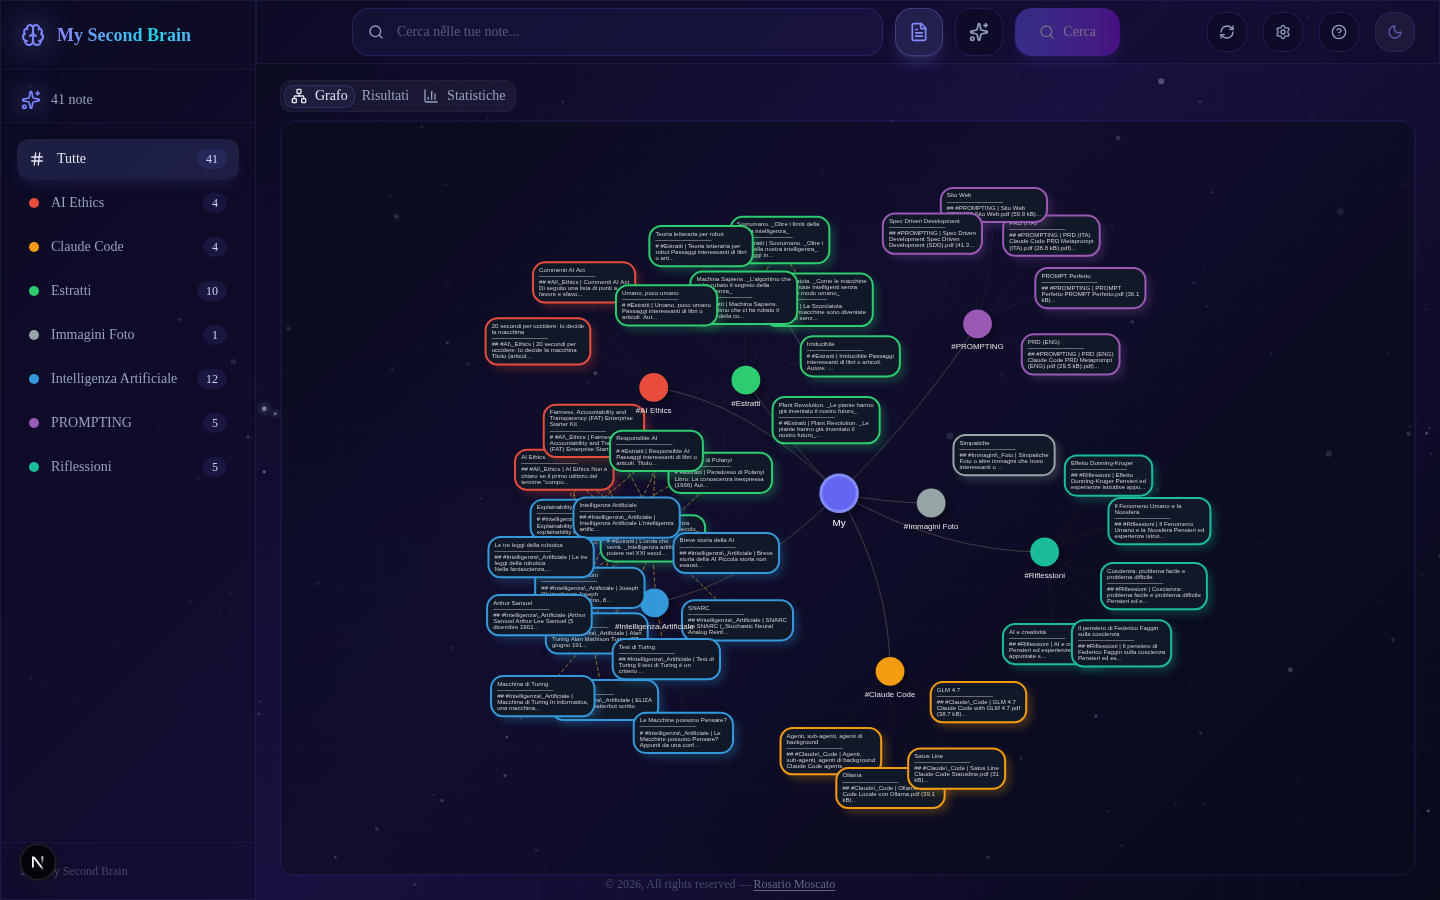
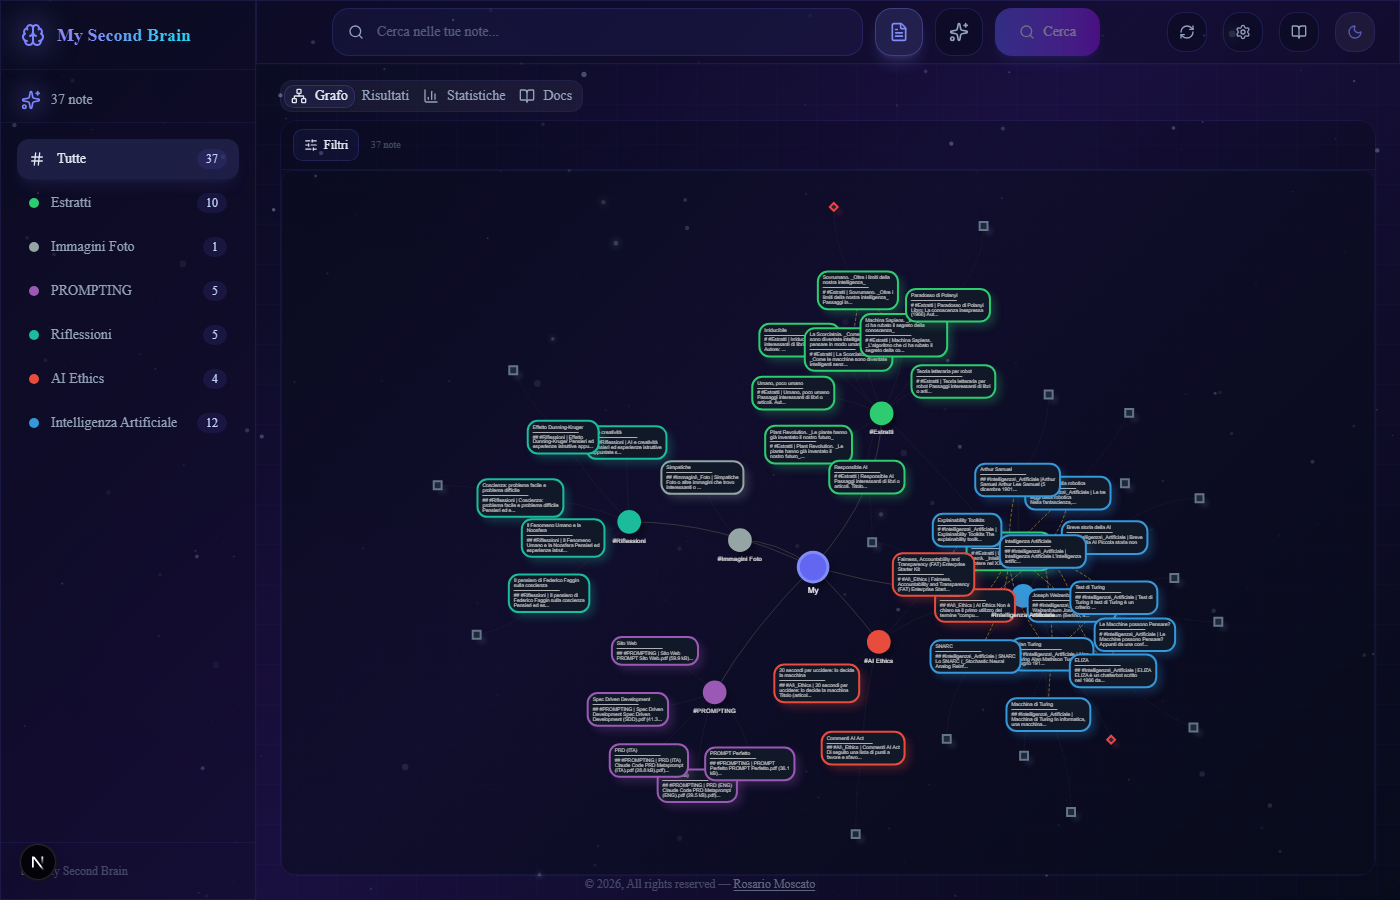
feat: advanced graph filters and external link nodes

diff --git a/components/graph-filters.tsx b/components/graph-filters.tsx
@@ -1,0 +1,155 @@
+"use client";
+
+import { useState } from "react";
+import { Button } from "@/components/ui/button";
+import { Badge } from "@/components/ui/badge";
+import { X, SlidersHorizontal, Link2, Paperclip, Calendar } from "lucide-react";
+
+export interface GraphFiltersState {
+  minLinks: number;
+  hasAttachments: "all" | "yes" | "no";
+  hasExternalLinks: "all" | "yes" | "no";
+}
+
+interface GraphFiltersProps {
+  active: GraphFiltersState;
+  onChange: (filters: GraphFiltersState) => void;
+  maxLinks: number;
+}
+
+const DEFAULT_FILTERS: GraphFiltersState = {
+  minLinks: 0,
+  hasAttachments: "all",
+  hasExternalLinks: "all",
+};
+
+export { DEFAULT_FILTERS };
+
+export function GraphFilters({ active, onChange, maxLinks }: GraphFiltersProps) {
+  const [isOpen, setIsOpen] = useState(false);
+
+  const isDefault =
+    active.minLinks === DEFAULT_FILTERS.minLinks &&
+    active.hasAttachments === DEFAULT_FILTERS.hasAttachments &&
+    active.hasExternalLinks === DEFAULT_FILTERS.hasExternalLinks;
+
+  const activeCount = [
+    active.minLinks > 0,
+    active.hasAttachments !== "all",
+    active.hasExternalLinks !== "all",
+  ].filter(Boolean).length;
+
+  const reset = () => onChange(DEFAULT_FILTERS);
+
+  return (
+    <div className="relative">
+      <div className="flex items-center gap-2">
+        <Button
+          variant="outline"
+          size="sm"
+          onClick={() => setIsOpen(!isOpen)}
+          className={`h-8 gap-1.5 text-xs ${!isDefault ? "border-indigo-500/50 text-indigo-400 bg-indigo-500/10" : ""}`}
+        >
+          <SlidersHorizontal className="h-3.5 w-3.5" />
+          Filtri
+          {activeCount > 0 && (
+            <Badge variant="secondary" className="h-4 min-w-4 px-1 text-[10px]">
+              {activeCount}
+            </Badge>
+          )}
+        </Button>
+        {!isDefault && (
+          <button
+            onClick={reset}
+            className="text-[10px] text-muted-foreground/50 hover:text-foreground transition-colors flex items-center gap-1"
+          >
+            <X className="h-3 w-3" />
+            Reset
+          </button>
+        )}
+      </div>
+
+      {isOpen && (
+        <div className="absolute top-full left-0 mt-2 z-50 w-72 rounded-xl border border-border/50 bg-popover/95 backdrop-blur-xl shadow-xl p-4 space-y-4">
+          <div className="flex items-center justify-between">
+            <span className="text-sm font-medium">Filtri grafo</span>
+            <button onClick={() => setIsOpen(false)} className="text-muted-foreground hover:text-foreground">
+              <X className="h-4 w-4" />
+            </button>
+          </div>
+
+          <div className="space-y-2">
+            <label className="text-xs text-muted-foreground flex items-center gap-1.5">
+              <Link2 className="h-3 w-3" />
+              Collegamenti minimi: {active.minLinks}
+            </label>
+            <input
+              type="range"
+              min={0}
+              max={maxLinks}
+              value={active.minLinks}
+              onChange={(e) => onChange({ ...active, minLinks: Number(e.target.value) })}
+              className="w-full h-1.5 bg-muted rounded-full appearance-none cursor-pointer accent-indigo-500"
+            />
+            <div className="flex justify-between text-[10px] text-muted-foreground/50">
+              <span>0</span>
+              <span>{maxLinks}</span>
+            </div>
+          </div>
+
+          <div className="space-y-2">
+            <label className="text-xs text-muted-foreground flex items-center gap-1.5">
+              <Paperclip className="h-3 w-3" />
+              Allegati
+            </label>
+            <div className="flex gap-1.5">
+              {[
+                { value: "all" as const, label: "Tutti" },
+                { value: "yes" as const, label: "Con" },
+                { value: "no" as const, label: "Senza" },
+              ].map((opt) => (
+                <button
+                  key={opt.value}
+                  onClick={() => onChange({ ...active, hasAttachments: opt.value })}
+                  className={`flex-1 text-[11px] px-2 py-1.5 rounded-lg border transition-all ${
+                    active.hasAttachments === opt.value
+                      ? "border-indigo-500/50 bg-indigo-500/10 text-indigo-400"
+                      : "border-border/50 bg-background/40 text-muted-foreground hover:bg-accent"
+                  }`}
+                >
+                  {opt.label}
+                </button>
+              ))}
+            </div>
+          </div>
+
+          <div className="space-y-2">
+            <label className="text-xs text-muted-foreground flex items-center gap-1.5">
+              <Calendar className="h-3 w-3" />
+              Link esterni
+            </label>
+            <div className="flex gap-1.5">
+              {[
+                { value: "all" as const, label: "Tutti" },
+                { value: "yes" as const, label: "Con" },
+                { value: "no" as const, label: "Senza" },
+              ].map((opt) => (
+                <button
+                  key={opt.value}
+                  onClick={() => onChange({ ...active, hasExternalLinks: opt.value })}
+                  className={`flex-1 text-[11px] px-2 py-1.5 rounded-lg border transition-all ${
+                    active.hasExternalLinks === opt.value
+                      ? "border-indigo-500/50 bg-indigo-500/10 text-indigo-400"
+                      : "border-border/50 bg-background/40 text-muted-foreground hover:bg-accent"
+                  }`}
+                >
+                  {opt.label}
+                </button>
+              ))}
+            </div>
+          </div>
+        </div>
+      )}
+    </div>
+  );
+}

diff --git a/app/page.tsx b/app/page.tsx
@@ -18,6 +18,7 @@ import { ScrollArea } from "@/components/ui/scroll-area";
 import { Brain, Network, RefreshCw, X, BarChart3, Settings, HelpCircle, BookOpen } from "lucide-react";
 import { SettingsDialog } from "@/components/settings-dialog";
 import { DocsViewer } from "@/components/docs-viewer";
+import { GraphFilters, DEFAULT_FILTERS, type GraphFiltersState } from "@/components/graph-filters";
 import { useSearchHistory } from "@/hooks/use-search-history";
 
 const allNotes = loadNotes();
@@ -39,6 +40,7 @@ export default function Home() {
   const [focusedResultIndex, setFocusedResultIndex] = useState(-1);
   const [searchQuery, setSearchQuery] = useState("");
   const [settingsOpen, setSettingsOpen] = useState(false);
+  const [graphFilters, setGraphFilters] = useState<GraphFiltersState>(DEFAULT_FILTERS);
   const graphRef = useRef<NoteGraphHandle>(null);
   const { history: searchHistory, add: addHistory, remove: removeHistory, clear: clearHistory } = useSearchHistory();
 
@@ -55,6 +57,29 @@ export default function Home() {
     : null;
 
   const currentNotes = notesVersion >= 0 ? filteredNotes : filteredNotes;
+
+  const maxLinksInNotes = useMemo(
+    () => Math.max(...allNotes.map((n) => n.links.length), 0),
+    []
+  );
+
+  const graphFilteredNotes = useMemo(() => {
+    let result = currentNotes;
+    if (graphFilters.minLinks > 0) {
+      result = result.filter((n) => n.links.length >= graphFilters.minLinks);
+    }
+    if (graphFilters.hasAttachments === "yes") {
+      result = result.filter((n) => n.attachments.length > 0);
+    } else if (graphFilters.hasAttachments === "no") {
+      result = result.filter((n) => n.attachments.length === 0);
+    }
+    if (graphFilters.hasExternalLinks === "yes") {
+      result = result.filter((n) => (n.externalLinks?.length ?? 0) > 0);
+    } else if (graphFilters.hasExternalLinks === "no") {
+      result = result.filter((n) => (n.externalLinks?.length ?? 0) === 0);
+    }
+    return result;
+  }, [currentNotes, graphFilters]);
 
   useEffect(() => {
     function handleKeyDown(e: KeyboardEvent) {
@@ -437,8 +462,20 @@ export default function Home() {
             </div>
 
             <TabsContent value="graph" className="flex-1 min-h-0 mt-0 px-6 pb-6">
-              <div className="h-full rounded-xl border border-indigo-500/10">
-                <NoteGraph ref={graphRef} notes={filteredNotes} onNodeClick={handleNoteClick} />
+              <div className="h-full flex flex-col rounded-xl border border-indigo-500/10 overflow-hidden">
+                <div className="shrink-0 px-3 py-2 border-b border-indigo-500/10 bg-background/30 flex items-center gap-3">
+                  <GraphFilters
+                    active={graphFilters}
+                    onChange={setGraphFilters}
+                    maxLinks={maxLinksInNotes}
+                  />
+                  <span className="text-[10px] text-muted-foreground/40">
+                    {graphFilteredNotes.length} note
+                  </span>
+                </div>
+                <div className="flex-1 min-h-0">
+                  <NoteGraph ref={graphRef} notes={graphFilteredNotes} onNodeClick={handleNoteClick} />
+                </div>
               </div>
             </TabsContent>
 

diff --git a/README.md b/README.md
@@ -1,6 +1,6 @@
 # My Second Brain — Guida Utente
 
-Esplora, cerca e interroga le tue note markdown con l'aiuto dell'intelligenza artificiale. Grafo interattivo, ricerca full-text, Q&A AI con citazioni delle fonti, embed video YouTube/Vimeo, anteprime immagini e link esterni con favicon.
+Esplora, cerca e interroga le tue note markdown con l'aiuto dell'intelligenza artificiale. Grafo interattivo con nodi per link esterni e filtri avanzati, ricerca full-text, Q&A AI con citazioni delle fonti, embed video YouTube/Vimeo, anteprime immagini e link esterni con favicon.
 
 ---
 
@@ -9,6 +9,10 @@ Esplora, cerca e interroga le tue note markdown con l'aiuto dell'intelligenza ar
 - [Primo avvio](#primo-avvio)
 - [L'interfaccia](#linterfaccia)
 - [Grafo interattivo](#grafo-interattivo)
+  - [Tipi di nodi](#tipi-di-nodi)
+  - [Interazioni](#interazioni)
+  - [Filtrare per categoria](#filtrare-per-categoria)
+  - [Filtri avanzati](#filtri-avanzati)
 - [Ricerca](#ricerca)
 - [Domande all'AI (RAG)](#domande-allai-rag)
 - [Visualizzare una nota](#visualizzare-una-nota)
@@ -75,10 +79,21 @@ Il **tab Grafo** mostra tutte le note come nodi collegati. Ogni nodo è una mini
 - **Anteprima** del contenuto (primi 80 caratteri)
 - **Bordo colorato** per categoria
 
+### Tipi di nodi
+
+Il grafo include tre tipi di nodi:
+
+| Tipo | Forma | Colore | Descrizione |
+|------|-------|--------|-------------|
+| **Nota** | Box arrotondato | Bordo colorato per categoria | Le tue note markdown |
+| **Sito web** | Quadrato piccolo | Grigio | Link a siti esterni citati nelle note |
+| **Video** | Diamante piccolo | Rosso | Link a YouTube/Vimeo citati nelle note |
+
 ### Interazioni
 
-- **Clicca** un nodo per aprire la nota nel pannello laterale
-- **Passa il mouse** su un nodo per vedere un tooltip con titolo, categoria e abstract
+- **Clicca** un nodo nota per aprirla nel pannello laterale
+- **Clicca** un nodo sito/video per aprirlo nel browser
+- **Passa il mouse** su un nodo per vedere un tooltip con dettagli (titolo, categoria, abstract per le note; dominio e URL per i link esterni)
 - **Trascina** i nodi per riorganizzare il grafo
 - **Scroll** per zoom in/out
 - **Clicca una categoria** nella sidebar per filtrare e mostrare solo le note di quella categoria
@@ -86,6 +101,20 @@ Il **tab Grafo** mostra tutte le note come nodi collegati. Ogni nodo è una mini
 ### Filtrare per categoria
 
 Clicca un elemento nella **sidebar sinistra** per filtrare il grafo, i risultati di ricerca e le risposte AI. Un chip colorato appare sotto i tab per indicare il filtro attivo. Clicca la **X** sul chip per rimuovere il filtro.
+
+### Filtri avanzati
+
+Sopra il grafo trovi il pulsante **Filtri** che apre un pannello con controlli avanzati:
+
+![Filtri avanzati grafo](public/screenshots/graph-filters.png)
+
+| Filtro | Descrizione |
+|--------|-------------|
+| **Collegamenti minimi** | Slider per mostrare solo note con almeno N link interni ad altre note |
+| **Allegati** | Filtra per note con o senza file allegati (Tutti / Con / Senza) |
+| **Link esterni** | Filtra per note che citano o meno risorse web esterne (Tutti / Con / Senza) |
+
+I filtri si combinano tra loro e con il filtro per categoria. Il contatore delle note visibili si aggiorna in tempo reale. Usa **Reset** per ripristinare tutti i filtri.
 
 ---
 
@@ -344,6 +373,7 @@ MySecondBrain/
 ├── components/
 │   ├── settings-dialog.tsx    ← Dialog impostazioni
 │   ├── note-graph.tsx         ← Grafo vis-network
+│   ├── graph-filters.tsx      ← Filtri avanzati grafo
 │   ├── note-sheet.tsx         ← Pannello nota
 │   ├── search-bar.tsx         ← Barra di ricerca
 │   ├── rag-answer.tsx         ← Chat AI + fonti

diff --git a/SECONDO_GIRO_MIGLIORAMENTI.md b/SECONDO_GIRO_MIGLIORAMENTI.md
@@ -13,7 +13,7 @@ Leggimi prima di ogni sessione per decidere cosa implementare.
 ## Grafo
 
 - [x] **Nodi per link esterni** — mostrare nel grafo anche i link a siti/video come nodi di tipo diverso (es. quadrati grigi o icone distinte), per mappare visivamente le risorse esterne citate
-- [ ] **Filtri avanzati nel grafo** — filtro per data, per numero di collegamenti, per note con/senza allegati
+- [x] **Filtri avanzati nel grafo** — filtro per numero di collegamenti, per note con/senza allegati, per note con/senza link esterni
 
 ## Ricerca & AI
 
